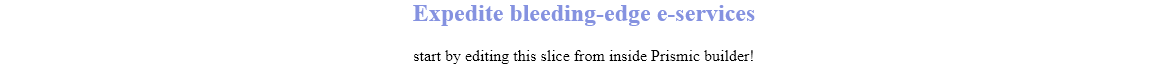
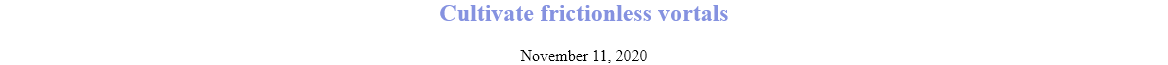
Added multiple pages. Added queries to Prismic and passed that data to the slices.

Changed region(s): [[0.339, 0.0615, 0.6473, 0.4], [0.339, 0.7692, 0.6473, 0.9538]]

diff --git a/.slicemachine/assets/slices/ImageGallery/index.stories.js b/.slicemachine/assets/slices/ImageGallery/index.stories.js
@@ -5,5 +5,5 @@ export default {
 }
 
 
-export const _DefaultSlice = () => <MyComponent slice={{"variation":"default-slice","name":"Default slice","slice_type":"image_gallery","items":[{"image":{"dimensions":{"width":600,"height":600},"alt":"Placeholder image","copyright":null,"url":"https://images.unsplash.com/photo-1589321578146-4c1ba445cc88?w=600&h=600&fit=crop"},"imageDescription":[{"type":"paragraph","text":"Culpa ea reprehenderit eu anim elit nostrud laboris culpa. Consequat et qui consectetur duis duis occaecat do nisi eu tempor sit nostrud. Esse consequat nostrud occaecat.","spans":[]}],"link":{"link_type":"Web","url":"https://slicemachine.dev"},"linkLabel":"leverage wireless e-tailers"},{"image":{"dimensions":{"width":600,"height":600},"alt":"Placeholder image","copyright":null,"url":"https://images.unsplash.com/photo-1589321599763-d66926c29613?w=600&h=600&fit=crop"},"imageDescription":[{"type":"paragraph","text":"Adipisicing magna eu amet reprehenderit irure laboris qui quis et dolor veniam elit. Enim duis exercitation magna voluptate nostrud.","spans":[]}],"link":{"link_type":"Web","url":"http://twitter.com"},"linkLabel":"unleash bricks-and-clicks niches"},{"image":{"dimensions":{"width":600,"height":600},"alt":"Placeholder image","copyright":null,"url":"https://images.unsplash.com/photo-1471897488648-5eae4ac6686b?w=600&h=600&fit=crop"},"imageDescription":[{"type":"paragraph","text":"Ad pariatur pariatur magna fugiat duis velit ipsum cupidatat sunt sint elit. Excepteur Lorem irure qui nulla veniam quis id id culpa nulla ea ad.","spans":[]}],"link":{"link_type":"Web","url":"http://google.com"},"linkLabel":"architect B2C architectures"},{"image":{"dimensions":{"width":600,"height":600},"alt":"Placeholder image","copyright":null,"url":"https://images.unsplash.com/photo-1448932223592-d1fc686e76ea?w=600&h=600&fit=crop"},"imageDescription":[{"type":"paragraph","text":"Quis eu anim irure labore consequat esse qui voluptate officia exercitation. Amet et non est duis adipisicing id do exercitation cupidatat. Anim reprehenderit officia sint culpa ea.","spans":[]}],"link":{"link_type":"Web","url":"http://google.com"},"linkLabel":"brand ubiquitous relationships"}],"primary":{"title":[{"type":"heading2","text":"Scale customized communities","spans":[]}]},"id":"_DefaultSlice"}} />
+export const _DefaultSlice = () => <MyComponent slice={{"variation":"default-slice","name":"Default slice","slice_type":"image_gallery","items":[{"image":{"dimensions":{"width":600,"height":600},"alt":"Placeholder image","copyright":null,"url":"https://images.unsplash.com/photo-1589321578146-4c1ba445cc88?w=600&h=600&fit=crop"},"imageDescription":[{"type":"paragraph","text":"Esse aute sit duis deserunt ea veniam magna laboris ipsum anim. Dolor irure officia reprehenderit. Consectetur deserunt fugiat culpa commodo reprehenderit adipisicing et velit consectetur ullamco amet.","spans":[]}]},{"image":{"dimensions":{"width":600,"height":600},"alt":"Placeholder image","copyright":null,"url":"https://images.unsplash.com/photo-1494173853739-c21f58b16055?w=600&h=600&fit=crop"},"imageDescription":[{"type":"paragraph","text":"Quis elit est tempor ea officia laboris irure do nulla cillum Lorem do enim veniam velit. Ex Lorem dolore aute incididunt excepteur sit proident consectetur cillum cupidatat magna ipsum excepteur ex.","spans":[]}]},{"image":{"dimensions":{"width":600,"height":600},"alt":"Placeholder image","copyright":null,"url":"https://images.unsplash.com/photo-1499951360447-b19be8fe80f5?w=600&h=600&fit=crop"},"imageDescription":[{"type":"paragraph","text":"Voluptate elit amet dolor ut elit nulla esse tempor.","spans":[]}]},{"image":{"dimensions":{"width":600,"height":600},"alt":"Placeholder image","copyright":null,"url":"https://images.unsplash.com/photo-1589321578146-4c1ba445cc88?w=600&h=600&fit=crop"},"imageDescription":[{"type":"paragraph","text":"Officia quis nostrud cupidatat fugiat cillum enim deserunt in ut.","spans":[]}]}],"primary":{"title":[{"type":"heading2","text":"Reintermediate value-added deliverables","spans":[]}]},"id":"_DefaultSlice"}} />
 _DefaultSlice.storyName = 'Default slice'

diff --git a/.slicemachine/assets/slices/Quote/index.stories.js b/.slicemachine/assets/slices/Quote/index.stories.js
@@ -5,8 +5,8 @@ export default {
 }
 
 
-export const _DefaultSlice = () => <MyComponent slice={{"variation":"default-slice","name":"Default slice","slice_type":"quote","items":[],"primary":{"quoteText":[{"type":"paragraph","text":"Cillum labore sint ad. Officia eiusmod aute ex tempor id minim anim. In eu ad ut esse non quis quis dolor fugiat tempor quis qui.","spans":[]}]},"id":"_DefaultSlice"}} />
+export const _DefaultSlice = () => <MyComponent slice={{"variation":"default-slice","name":"Default slice","slice_type":"quote","items":[],"primary":{"quoteText":[{"type":"paragraph","text":"Adipisicing laboris nisi minim nostrud in exercitation ullamco sunt dolor magna proident aliquip consequat nisi.","spans":[]}]},"id":"_DefaultSlice"}} />
 _DefaultSlice.storyName = 'Default slice'
 
-export const _QuoteReference = () => <MyComponent slice={{"variation":"quoteReference","name":"Quote Reference","slice_type":"quote","items":[],"primary":{"quoteText":[{"type":"paragraph","text":"Tempor laborum mollit Lorem velit fugiat pariatur consectetur dolore laborum. Ullamco tempor exercitation deserunt ullamco sit sit sit laborum. Amet in excepteur culpa sit nulla quis in dolor adipisicing deserunt quis irure reprehenderit.","spans":[]}],"reference":[{"type":"paragraph","text":"Mollit occaecat irure est voluptate qui id dolor officia veniam dolore laboris do ut irure. Pariatur commodo enim mollit aliquip nulla consequat esse laboris et. Lorem et elit exercitation sint ut fugiat pariatur.","spans":[]}]},"id":"_QuoteReference"}} />
+export const _QuoteReference = () => <MyComponent slice={{"variation":"quoteReference","name":"Quote Reference","slice_type":"quote","items":[],"primary":{"quoteText":[{"type":"paragraph","text":"Laborum id Lorem consectetur et magna incididunt tempor. Id sint magna incididunt dolore aliquip reprehenderit ad. Excepteur minim amet irure sunt elit qui dolore velit cupidatat veniam aliquip elit amet irure.","spans":[]}],"reference":[{"type":"paragraph","text":"Minim aliquip laboris pariatur ipsum aliqua ex sunt. Mollit commodo aute consequat.","spans":[]}]},"id":"_QuoteReference"}} />
 _QuoteReference.storyName = 'Quote Reference'

diff --git a/pages/index.js b/pages/index.js
@@ -1,26 +1,47 @@
 import { Client } from "../prismic-configuration";
 import SliceZone from "next-slicezone";
 import { useGetStaticProps } from "next-slicezone/hooks";
+import Prismic from "@prismicio/client";
+
 
 import resolver from "../sm-resolver.js";
 import Layout from "./../components/Layout";
 
 const Home = (props) => {
+  console.log(props)
   return (
     <Layout menu={props.menu}>
-       <SliceZone {...props} resolver={resolver} />
+      {/* The getByUID query below puts the slices in the data property instead of the parent property, so data is supplied */}
+       <SliceZone {...props.data} resolver={resolver} />
     </Layout>
   );
 }
 
 // Fetch content from prismic
-export const getStaticProps = useGetStaticProps({
-  client: Client(),
-  type: 'home-page',
-  queryType: 'single',
-  apiParams: {
-    uid: 'home'
-  }
-});
+// export const getStaticProps = useGetStaticProps({
+//   client: Client(),
+//   type: 'home-page',
+//   queryType: 'single',
+//   apiParams: {
+//     uid: 'home'
+//   }
+// });
+
+
+export const getStaticProps = async ({params}) => {
+    const client = Client();
+    // Query to get all documents of type 'page' from Prismic.
+    var pages = (await client.query(Prismic.Predicates.at('document.type', 'page')) || {});
+
+    // Gets the homepage document from Prismic
+    var pageProps = (await client.getByUID("home-page", "homepage")) || {};
+    
+    // Find the correct slice and give it the pages property with the pages queried above. 
+    var bannerIndex = pageProps.data.slices.findIndex((slice) => slice.slice_type === "banner_slice");
+    if (bannerIndex !== -1) pageProps.data.slices[bannerIndex].pages = pages.results;
+    return {
+        props: pageProps
+    }
+}
 
 export default Home;

diff --git a/.slicemachine/assets/slices/TextSlice/index.stories.js b/.slicemachine/assets/slices/TextSlice/index.stories.js
@@ -5,8 +5,8 @@ export default {
 }
 
 
-export const _DefaultSlice = () => <MyComponent slice={{"variation":"default-slice","name":"Default slice","slice_type":"text_slice","items":[],"primary":{"text":[{"type":"paragraph","text":"Consectetur qui minim ad deserunt aliquip adipisicing ipsum dolor ipsum adipisicing ea. Esse incididunt nostrud non ullamco ea incididunt minim do consectetur reprehenderit id eiusmod laboris cupidatat. Dolore aliquip sunt in consequat quis aliqua sint dolor culpa consectetur aliquip cupidatat aliquip.","spans":[]}]},"id":"_DefaultSlice"}} />
+export const _DefaultSlice = () => <MyComponent slice={{"variation":"default-slice","name":"Default slice","slice_type":"text_slice","items":[],"primary":{"text":[{"type":"paragraph","text":"In dolore ut cillum elit. Duis id proident magna in ipsum labore mollit eu sit. Veniam incididunt non cupidatat ut mollit ut cillum.","spans":[]}]},"id":"_DefaultSlice"}} />
 _DefaultSlice.storyName = 'Default slice'
 
-export const _TwoColumn = () => <MyComponent slice={{"variation":"twoColumn","name":"Two Column","slice_type":"text_slice","items":[],"primary":{"text":[{"type":"paragraph","text":"Nostrud est laboris qui id labore ea minim mollit duis excepteur sint nisi. Consequat do aliqua qui minim dolore laborum id qui ex excepteur non. Ad elit esse id.","spans":[]}]},"id":"_TwoColumn"}} />
+export const _TwoColumn = () => <MyComponent slice={{"variation":"twoColumn","name":"Two Column","slice_type":"text_slice","items":[],"primary":{"text":[{"type":"paragraph","text":"Consectetur sunt enim reprehenderit. Fugiat minim anim nulla.","spans":[]}]},"id":"_TwoColumn"}} />
 _TwoColumn.storyName = 'Two Column'

diff --git a/pages/[uid].js b/pages/[uid].js
@@ -1,6 +1,7 @@
 import { Client } from "../prismic-configuration";
 import SliceZone from "next-slicezone";
 import { useGetStaticProps, useGetStaticPaths } from "next-slicezone/hooks";
+import Prismic from "@prismicio/client";
 
 import resolver from "../sm-resolver.js";
 import Layout from "./../components/Layout";
@@ -8,21 +9,31 @@ import Layout from "./../components/Layout";
 const Page = (props) => {
   return (
   <Layout menu={props.menu}>
-    <SliceZone {...props} resolver={resolver} />;
+    <SliceZone {...props.data}  resolver={resolver} />;
   </Layout>)
 };
 
 // Fetch content from prismic
-export const getStaticProps = useGetStaticProps({
-  client: Client(),
-  queryType: 'repeat',
-  type: 'page',
-  apiParams({ params }) {
+// export const getStaticProps = useGetStaticProps({
+//   client: Client(),
+//   queryType: 'repeat',
+//   type: 'page',
+//   apiParams({ params }) {
+//     return {
+//       uid: params.uid
+//     }
+//   }
+// });
+
+export const getStaticProps = async ({params}) => {
+    const client = Client();
+    var pageProps = (await client.getByUID("page", params.uid) || {});
+    //pageProps.uid = params.uid;
+    //pageProps.slices=pageProps.data.slices;
     return {
-      uid: params.uid
+        props: pageProps
     }
-  }
-});
+}
 
 export const getStaticPaths = useGetStaticPaths({
   client: Client(),

diff --git a/.slicemachine/assets/slices/FeaturedImage/index.stories.js b/.slicemachine/assets/slices/FeaturedImage/index.stories.js
@@ -5,5 +5,5 @@ export default {
 }
 
 
-export const _DefaultSlice = () => <MyComponent slice={{"variation":"default-slice","name":"Default slice","slice_type":"featured_image","items":[],"primary":{"title":[{"type":"heading2","text":"Monetize seamless supply-chains","spans":[]}],"headline":[{"type":"heading3","text":"Reinvent e-business e-business","spans":[]}],"link":{"link_type":"Web","url":"http://google.com"},"linkLabel":"expedite virtual supply-chains","featuredImage":{"dimensions":{"width":600,"height":600},"alt":"Placeholder image","copyright":null,"url":"https://images.unsplash.com/photo-1515378791036-0648a3ef77b2?w=600&h=600&fit=crop"}},"id":"_DefaultSlice"}} />
+export const _DefaultSlice = () => <MyComponent slice={{"variation":"default-slice","name":"Default slice","slice_type":"featured_image","items":[],"primary":{"title":[{"type":"heading2","text":"Target interactive methodologies","spans":[]}],"headline":[{"type":"heading3","text":"Brand viral systems","spans":[]}],"link":{"link_type":"Web","url":"https://slicemachine.dev"},"linkLabel":"enhance distributed functionalities","featuredImage":{"dimensions":{"width":600,"height":600},"alt":"Placeholder image","copyright":null,"url":"https://images.unsplash.com/photo-1547394765-185e1e68f34e?w=600&h=600&fit=crop"}},"id":"_DefaultSlice"}} />
 _DefaultSlice.storyName = 'Default slice'

diff --git a/components/Header.js b/components/Header.js
@@ -5,10 +5,10 @@ import { Link } from 'prismic-reactjs'
 const Header = ({ menu = [] }) => (
     <header className="site-header">
       <a href="/" className="logo">
-        {RichText.asText(menu.data.title)}
+        {RichText.asText(menu.data?.title)}
       </a>
       {console.log(menu)}
-      <Links menuLinks={menu.data.menu_links} />
+      <Links menuLinks={menu.data?.menu_links} />
       <style jsx>{`
         .site-header {
           height: 30px;
@@ -21,7 +21,7 @@ const Header = ({ menu = [] }) => (
           font-weight: 700;
         }
         .site-header a:hover {
-          color: #72767B;
+          color: yellow;
         }
         .site-header .logo {
           display: inline-block;
@@ -81,7 +81,7 @@ const Links = ({menuLinks}) => {
             font-weight: 700;
           }
           nav li a:hover {
-            color: #72767B;
+            color: yellow;
           }
           @media (max-width: 767px) {
             nav {

diff --git a/slices/FunWithDates/index.js b/slices/FunWithDates/index.js
@@ -2,7 +2,14 @@ import React from 'react'
 import { RichText } from 'prismic-reactjs'
 import { Date as ParseDate } from 'prismic-reactjs'
 
-const FunWithDates = ({ slice }) => (
+const FunWithDates = ({ slice }) => {
+  let date = ParseDate(slice.primary.datePicker);
+  const formattedDate = Intl.DateTimeFormat("en-US", {
+    year: "numeric",
+    month: "long",
+    day: "2-digit" 
+  }).format(date);
+  return (
   <section>
     <span className="title">
       {
@@ -11,7 +18,7 @@ const FunWithDates = ({ slice }) => (
         : <h2>Template slice, update me!</h2>
       }
     </span>
-    <span >{ ParseDate(slice.primary.datePicker) }</span>
+    <span >{formattedDate}</span>
     <style jsx>{`
         section {
           max-width: 600px;
@@ -22,7 +29,7 @@ const FunWithDates = ({ slice }) => (
           color: #8592e0;
         }
     `}</style>
-  </section>
-)
+  </section>);
+}
 
 export default FunWithDates

diff --git a/.slicemachine/assets/slices/Links/index.stories.js b/.slicemachine/assets/slices/Links/index.stories.js
@@ -1,0 +1,9 @@
+import MyComponent from '../../../../slices/Links';
+
+export default {
+  title: 'slices/Links'
+}
+
+
+export const _DefaultSlice = () => <MyComponent slice={{"variation":"default-slice","name":"Default slice","slice_type":"links","items":[],"primary":{"title":[{"type":"heading1","text":"Facilitate out-of-the-box synergies","spans":[]}],"description":[{"type":"paragraph","text":"In incididunt labore occaecat pariatur adipisicing laborum laboris aute nostrud magna labore Lorem anim dolore. Proident aliqua aliqua magna ea nostrud pariatur.","spans":[]}],"link":{"link_type":"Web","url":"https://slicemachine.dev"},"link1relationship":{"link_type":"Web","url":"http://google.com"},"link2":{"link_type":"Web","url":"https://slicemachine.dev"},"link2Label":"evolve cross-media technologies"},"id":"_DefaultSlice"}} />
+_DefaultSlice.storyName = 'Default slice'

diff --git a/pages/_app.js b/pages/_app.js
@@ -1,8 +1,6 @@
 import "../styles/globals.css";
-import NextApp from 'next/app';
+import Prismic from "@prismicio/client";
 import {Client} from "../prismic-configuration";
-import { useGetStaticProps } from "next-slicezone/hooks";
-import { props } from "bluebird";
 
 // export default class MyApp extends NextApp {
 //   static async getInitialProps(appCtx) {
@@ -17,16 +15,17 @@ import { props } from "bluebird";
 // }
 
 export default function App({ Component, pageProps, props }) {
+  //pageProps.slices[0].pages=pageProps.pages;
   return <Component {...pageProps} menu={props.menu} />;
 };
 
-App.getInitialProps = async(context) => {
+App.getInitialProps = async() => {
   const client = Client();
   const menu = (await client.getSingle("menu")) || {};
 
   return { 
     props: {
-      menu: menu
+      menu: menu,
     },
   };
 };

diff --git a/.slicemachine/assets/slices/FullWidthImage/index.stories.js b/.slicemachine/assets/slices/FullWidthImage/index.stories.js
@@ -5,5 +5,5 @@ export default {
 }
 
 
-export const _DefaultSlice = () => <MyComponent slice={{"variation":"default-slice","name":"Default slice","slice_type":"full_width_image","items":[],"primary":{"image":{"dimensions":{"width":980,"height":300},"alt":"Placeholder image","copyright":null,"url":"https://images.unsplash.com/photo-1515378791036-0648a3ef77b2?w=980&h=300&fit=crop"}},"id":"_DefaultSlice"}} />
+export const _DefaultSlice = () => <MyComponent slice={{"variation":"default-slice","name":"Default slice","slice_type":"full_width_image","items":[],"primary":{"image":{"dimensions":{"width":980,"height":300},"alt":"Placeholder image","copyright":null,"url":"https://images.unsplash.com/photo-1471897488648-5eae4ac6686b?w=980&h=300&fit=crop"}},"id":"_DefaultSlice"}} />
 _DefaultSlice.storyName = 'Default slice'

diff --git a/.slicemachine/assets/slices/TopBanner/index.stories.js b/.slicemachine/assets/slices/TopBanner/index.stories.js
@@ -5,5 +5,5 @@ export default {
 }
 
 
-export const _DefaultSlice = () => <MyComponent slice={{"variation":"default-slice","name":"Default slice","slice_type":"top_banner","items":[],"primary":{"background":{"dimensions":{"width":900,"height":75},"alt":"Placeholder image","copyright":null,"url":"https://images.unsplash.com/photo-1600861194802-a2b11076bc51?w=900&h=75&fit=crop"}},"id":"_DefaultSlice"}} />
+export const _DefaultSlice = () => <MyComponent slice={{"variation":"default-slice","name":"Default slice","slice_type":"top_banner","items":[],"primary":{"background":{"dimensions":{"width":900,"height":75},"alt":"Placeholder image","copyright":null,"url":"https://images.unsplash.com/photo-1586952518485-11b180e92764?w=900&h=75&fit=crop"}},"id":"_DefaultSlice"}} />
 _DefaultSlice.storyName = 'Default slice'
